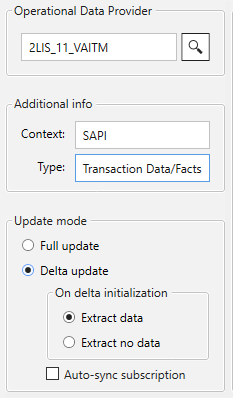
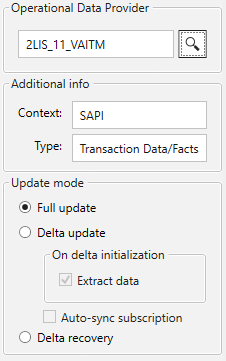
ODP - EN - Include/XIS

diff --git a/_includes/_content/en/odp/odp-settings-update_mode.md b/_includes/_content/en/odp/odp-settings-update_mode.md
@@ -1,0 +1,25 @@
+**Operational Data Provider**<br/>
+shows the name of the source object 
+
+**Context**<br/>
+shows the ODP provider context 
+
+**Type**<br/>
+shows the data type of the source object
+
+**Update Mode** 
+- Full update: extracts the data in full mode
+- Delta update: runs a delta initialization, in case there is none for this subscriber. Runs a delta update, in case there already is a delta initialization for this subscriber. 
+- Delta recovery: re-runs the last delta update 
+<br>
+**On delta initialization** <br/>
+Check the *Extract data* checkbox, if you want to extract data on running a delta initialization. Leaving this box unchecked will run a delta initialization without extracting data. 
+
+<br>
+- Auto-sync subscription: This option allows to delete the existing subscription and create a new one if required. Each extraction has an internal ID, which is part of the subscriber. If you then change the filter of an extraction after the delta init, this option will automatically delete the existing subscription and create a new one. This is only done if the error "Illegal change in selection parameters" comes from the SAP system.
+
+
+**Hint:** The *Delta update* option will be ready for input only if the ODP provider in the SAP source system supports delta updates. 
+<br/><br/>
+![ODP Settings](/img/content/odp/odp-settings-01.png){:class="img-responsive"}
+<br/>

diff --git a/content/_en/xtract-is/odp/odp-settings.md b/content/_en/xtract-is/odp/odp-settings.md
@@ -10,7 +10,7 @@ weight: 5
 lang: en_GB
 ---
 
-{% include _content/en/odp/odp-settings-1.md %} 
-{% include _content/en/odp/odp-settings-2.md %}
-{% include _content/en/odp/odp-settings-4.md %}  
-{% include _content/en/odp/odp-settings-3.md %} 
+{% include _content/en/odp/odp-settings-update_mode.md %} 
+{% include _content/en/odp/odp-odp-settings-subscriptions.md %}
+{% include _content/en/odp/odp-settings-parameters.md %}  
+{% include _content/en/odp/odp-settings-filtering.md %} 
